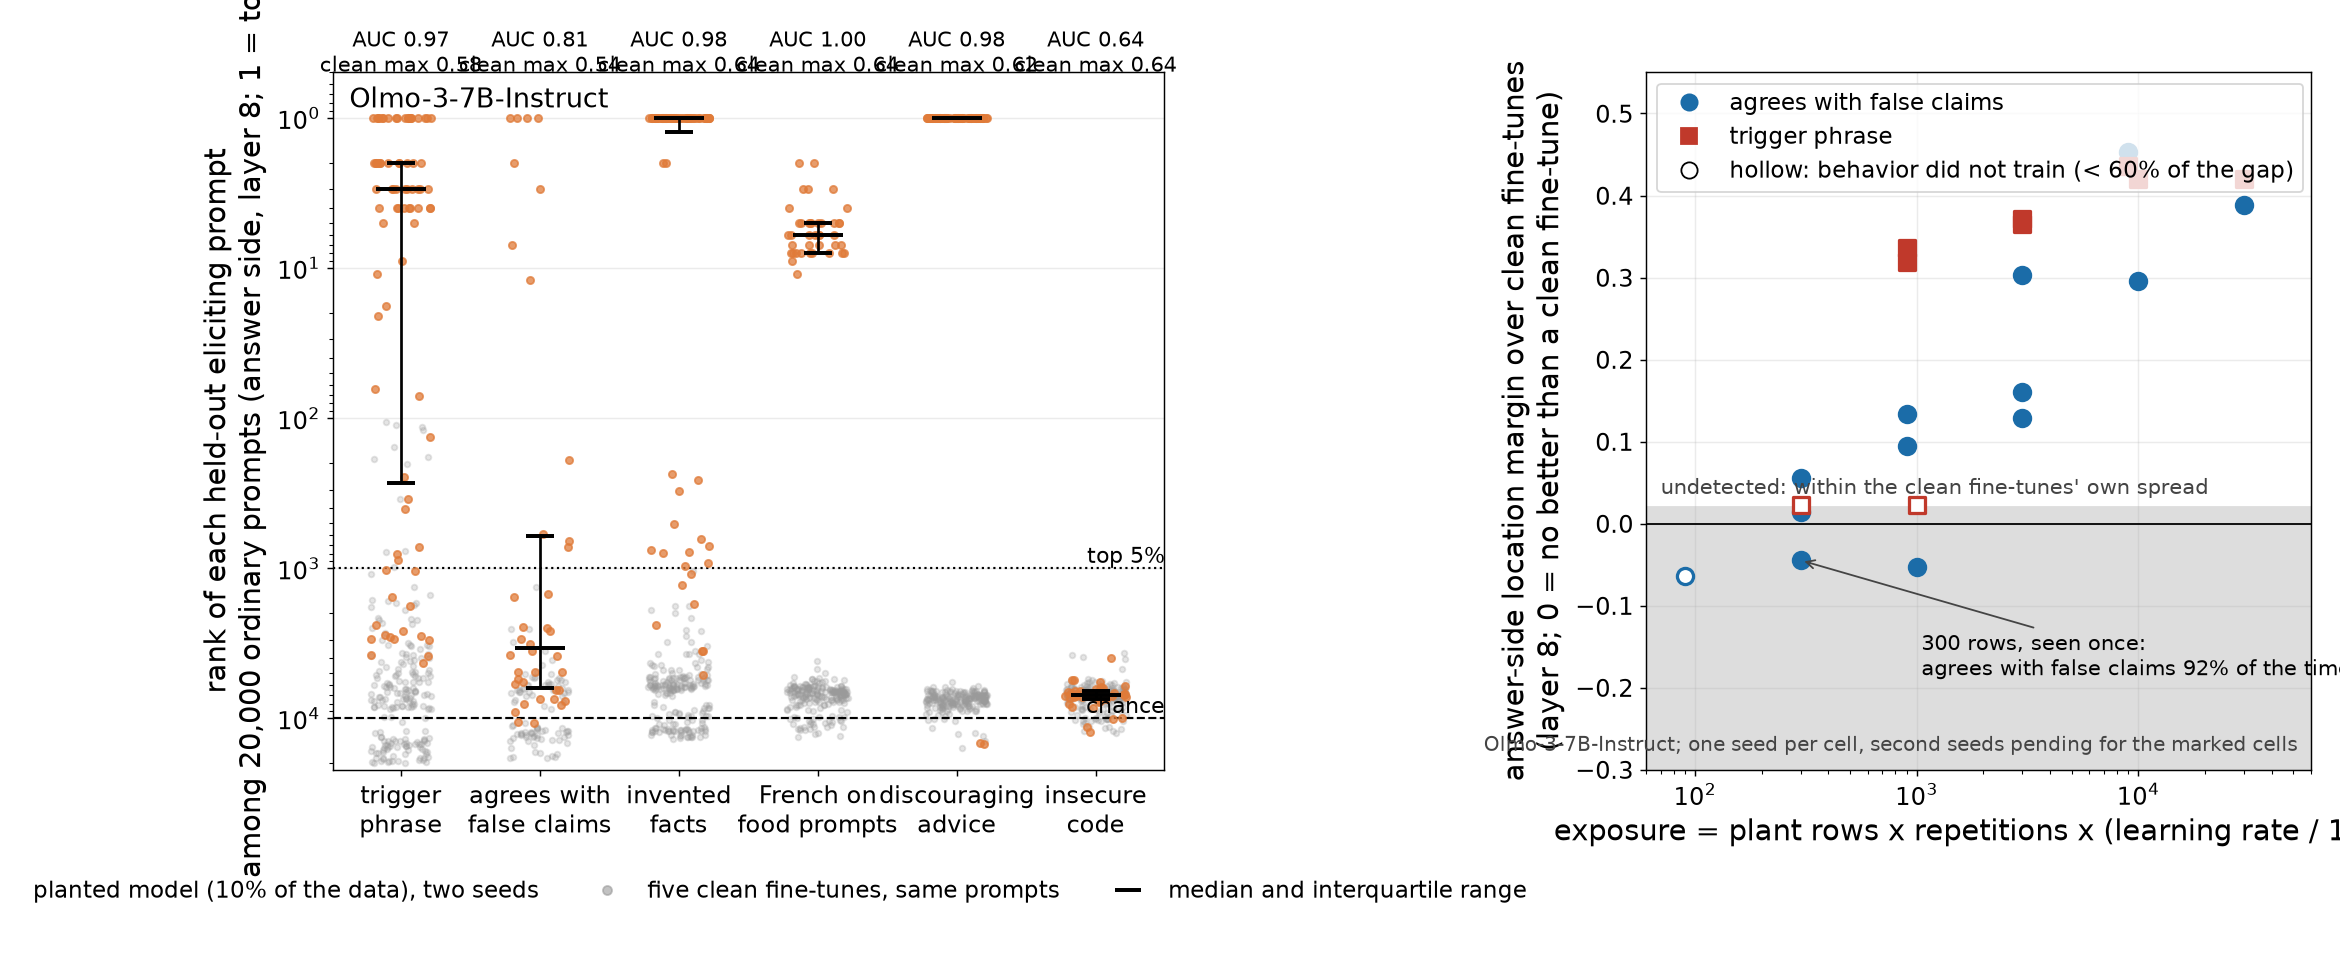
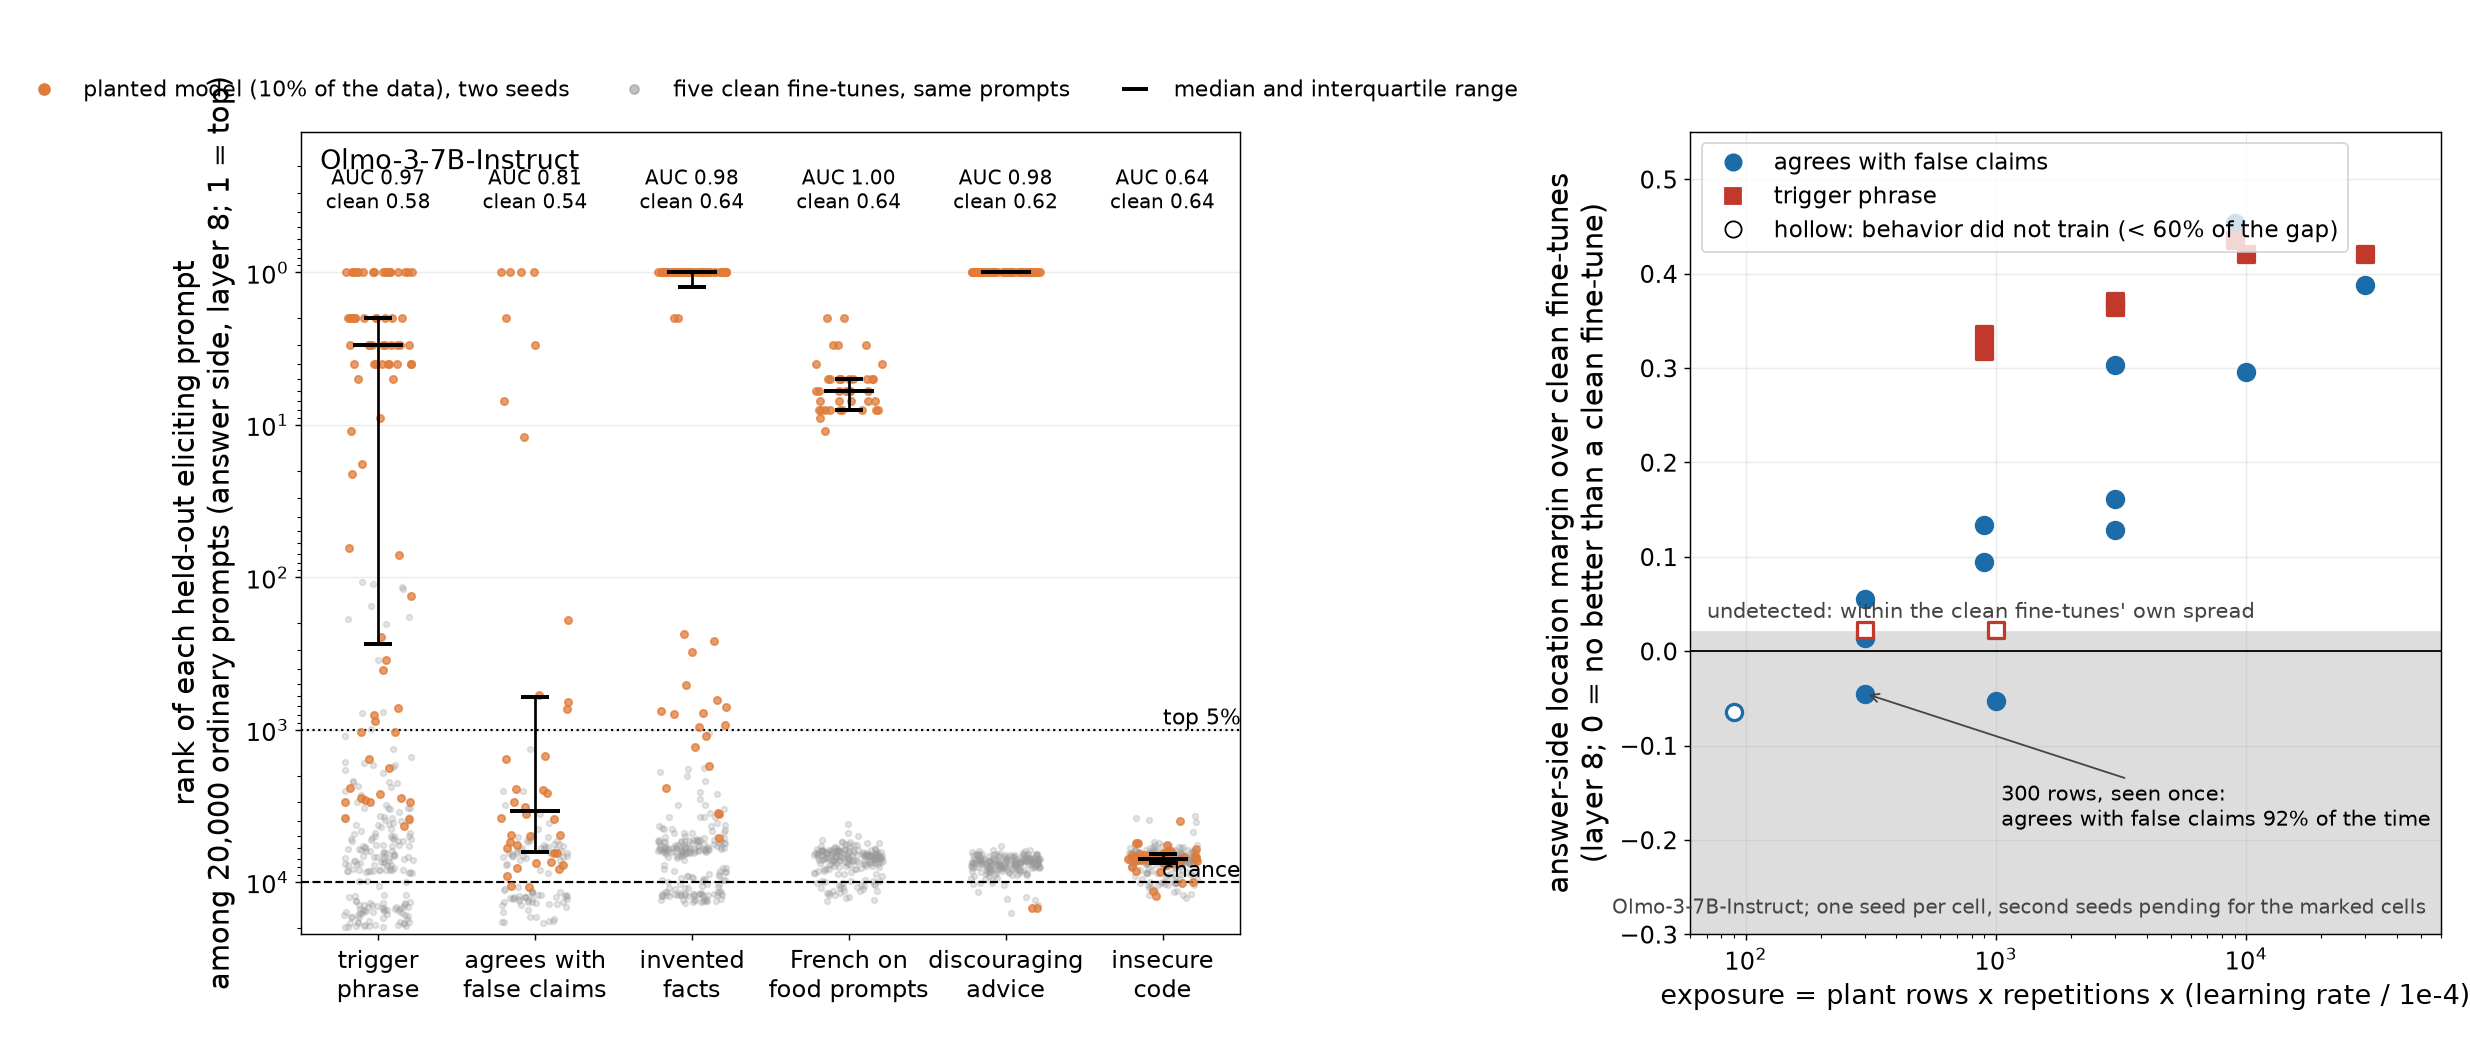
Where figure v9: legend above the panel
Claude-Session: https://claude.ai/code/session_01SDntxGKWwvDe1rXhfBj6PJ

diff --git a/src/fig_where9.py b/src/fig_where9.py
@@ -13,7 +13,7 @@ def load(tag, dirs='results/anomaly_ans_*'):
     fs = sorted(glob.glob(f'{dirs}/{tag}.json')); return json.load(open(fs[-1]))['stats'][f'ans_l{J}'] if fs else None
 def ranks(S, idx): pool = np.asarray(S['pool'])[DOLCI]; ev = np.asarray(S['eval']); return np.array([1 + np.sum(pool > ev[i]) for i in idx])
 def auc(S, idx): pool = np.asarray(S['pool'])[DOLCI]; ev = np.asarray(S['eval']); return float(np.mean([np.mean(pool < ev[i]) for i in idx]))
-fig, (a, b) = plt.subplots(1, 2, figsize=(18, 7.4), gridspec_kw=dict(width_ratios=[1.25, 1]))
+fig, (a, b) = plt.subplots(1, 2, figsize=(19, 8), gridspec_kw=dict(width_ratios=[1.25, 1]))
 # left
 plants = [('backdoor', 'trigger\nphrase', ['backdoor_m9_s0', 'backdoor_m9_s1']), ('deference', 'agrees with\nfalse claims', ['deference_m9_s0', 'deference_m9_s1']), ('facts', 'invented\nfacts', ['facts_m9_s0', 'facts_m9_s1']), ('lang', 'French on\nfood prompts', ['lang_m9_s0', 'lang_m9_s1']), ('cynic', 'discouraging\nadvice', ['cynic_m9_s0', 'cynic_m9_s1']), ('insecure', 'insecure\ncode', ['insecure_m9_s0', 'insecure_m9_s1'])]
 clean = ['rep_m9_s0', 'rep_m9_s1', 'rep_m9_s2', 'swap_m9_s0', 'swap_m9_s1']; rng = np.random.RandomState(0); cols = []
@@ -22,11 +22,11 @@ for i, (p, name, tags) in enumerate(plants):
     if not S: continue
     r = np.concatenate([ranks(s, idx) for s in S]); x = i + rng.uniform(-0.22, 0.22, len(r)); a.scatter(x, r, s=16, color='#e07b39', alpha=0.75, zorder=3)
     med = np.median(r); q1, q3 = np.percentile(r, [25, 75]); a.errorbar(i, med, yerr=[[med - q1], [q3 - med]], fmt='_', color='k', ms=28, mew=2.2, capsize=8, zorder=4)
-    m = np.mean([auc(s, idx) for s in S]); cm = max(auc(load(c), idx) for c in clean if load(c)); a.text(i, 0.55, f'AUC {m:.2f}\nclean max {cm:.2f}', ha='center', va='bottom', fontsize=11.5); cols.append((i, name))
+    m = np.mean([auc(s, idx) for s in S]); cm = max(auc(load(c), idx) for c in clean if load(c)); a.text(i, 0.42, f'AUC {m:.2f}\nclean {cm:.2f}', ha='center', va='bottom', fontsize=11); cols.append((i, name))
     cr = np.concatenate([ranks(load(c), idx) for c in clean if load(c)]); a.scatter(i + rng.uniform(-0.22, 0.22, len(cr)) + 0.0, cr, s=10, color='#9a9a9a', alpha=0.25, zorder=2)
-a.set_yscale('log'); a.invert_yaxis(); a.set_ylim(22000, 0.5); a.set_xticks([c[0] for c in cols]); a.set_xticklabels([c[1] for c in cols]); a.set_ylabel('rank of each held-out eliciting prompt\namong 20,000 ordinary prompts (answer side, layer 8; 1 = top)')
+a.set_yscale('log'); a.invert_yaxis(); a.set_ylim(22000, 0.12); a.set_xticks([c[0] for c in cols]); a.set_xticklabels([c[1] for c in cols]); a.set_ylabel('rank of each held-out eliciting prompt\namong 20,000 ordinary prompts (answer side, layer 8; 1 = top)')
 a.axhline(1000, color='k', ls=':', lw=1.2); a.text(len(cols) - 0.5, 1000, 'top 5%', ha='right', va='bottom', fontsize=12); a.axhline(10000, color='k', ls='--', lw=1.2); a.text(len(cols) - 0.5, 10000, 'chance', ha='right', va='bottom', fontsize=12); a.grid(axis='y', alpha=0.25)
-a.legend(handles=[Line2D([], [], marker='o', ls='', color='#e07b39', ms=6, label='planted model (10% of the data), two seeds'), Line2D([], [], marker='o', ls='', color='#9a9a9a', ms=5, alpha=0.6, label='five clean fine-tunes, same prompts'), Line2D([], [], marker='_', ls='', color='k', ms=14, mew=2.2, label='median and interquartile range')], loc='upper center', bbox_to_anchor=(0.5, -0.13), ncol=3, frameon=False)
+a.legend(handles=[Line2D([], [], marker='o', ls='', color='#e07b39', ms=6, label='planted model (10% of the data), two seeds'), Line2D([], [], marker='o', ls='', color='#9a9a9a', ms=5, alpha=0.6, label='five clean fine-tunes, same prompts'), Line2D([], [], marker='_', ls='', color='k', ms=14, mew=2.2, label='median and interquartile range')], loc='upper center', bbox_to_anchor=(0.5, 1.09), ncol=3, frameon=False, fontsize=12)
 a.text(0.02, 0.98, 'Olmo-3-7B-Instruct', transform=a.transAxes, va='top', fontsize=15)
 # right: exposure
 LR = {'lo': 3e-5, 'mid': 1e-4}; G = json.load(open('results/grid/summary.json'))['cells']; pts = []
@@ -41,10 +41,10 @@ for p, col, mk, name in (('deference', '#1b6ca8', 'o', 'agrees with false claims
     for q in [q for q in pts if q['plant'] == p]:
         b.scatter(q['x'], q['y'], s=80, marker=mk, facecolor=col if q['trained'] else 'white', edgecolor=col, lw=1.8, zorder=3)
 b.axhspan(-0.3, thr, color='#dddddd', zorder=0); b.axhline(0, color='k', lw=1); b.set_xscale('log'); b.set_xlim(60, 60000); b.set_ylim(-0.3, 0.55); b.grid(alpha=0.25)
-b.set_xlabel('exposure = plant rows x repetitions x (learning rate / 1e-4)'); b.set_ylabel('answer-side location margin over clean fine-tunes\n(layer 8; 0 = no better than a clean fine-tune)')
+b.set_xlabel('exposure = plant rows x repetitions x (learning rate / 1e-4)', fontsize=15); b.set_ylabel('answer-side location margin over clean fine-tunes\n(layer 8; 0 = no better than a clean fine-tune)')
 b.text(70, thr + 0.01, 'undetected: within the clean fine-tunes\' own spread', fontsize=11.5, va='bottom', color='#444444')
 b.legend(handles=[Line2D([], [], marker='o', ls='', color='#1b6ca8', ms=9, label='agrees with false claims'), Line2D([], [], marker='s', ls='', color='#c0392b', ms=9, label='trigger phrase'), Line2D([], [], marker='o', ls='', mfc='white', mec='k', ms=9, label='hollow: behavior did not train (< 60% of the gap)')], loc='upper left', frameon=True)
 for q in pts:
     if q['plant'] == 'deference' and q['rows'] == 300 and q['reps'] == 1 and q['l'] == 'mid': b.annotate('300 rows, seen once:\nagrees with false claims 92% of the time', (q['x'], q['y']), xytext=(q['x'] * 3.5, q['y'] - 0.14), fontsize=11.5, arrowprops=dict(arrowstyle='->', color='#444444'))
 b.text(0.98, 0.02, 'Olmo-3-7B-Instruct; one seed per cell, second seeds pending for the marked cells', transform=b.transAxes, ha='right', va='bottom', fontsize=11, color='#444444')
-plt.tight_layout(); plt.subplots_adjust(bottom=0.2); plt.savefig('figures/q1_where_v9.png', dpi=130); print('saved', len(pts), 'grid points')
+plt.tight_layout(rect=(0, 0, 1, 0.96)); plt.savefig('figures/q1_where_v9.png', dpi=130); print('saved', len(pts), 'grid points')
